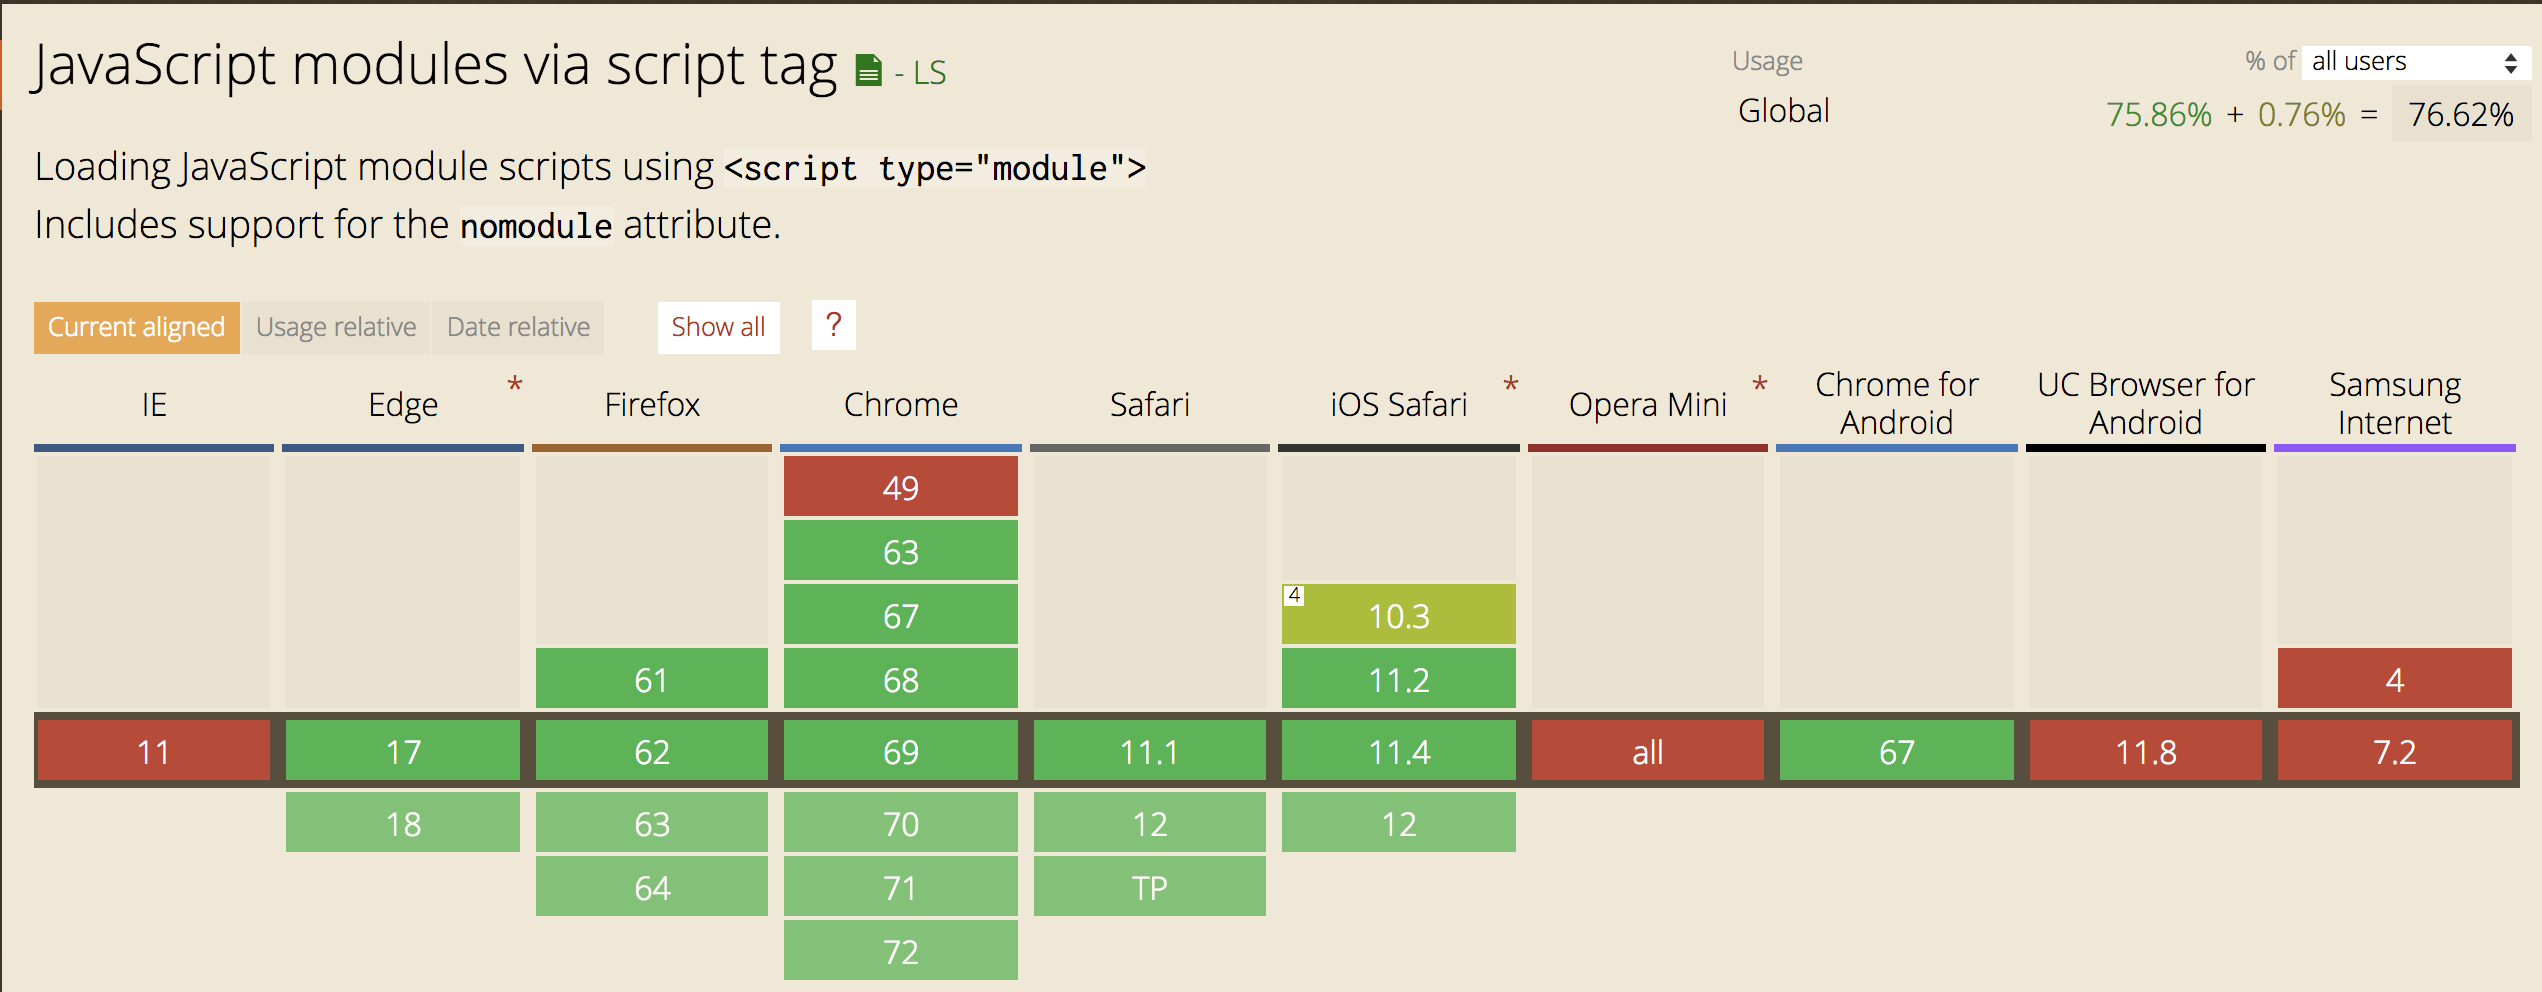
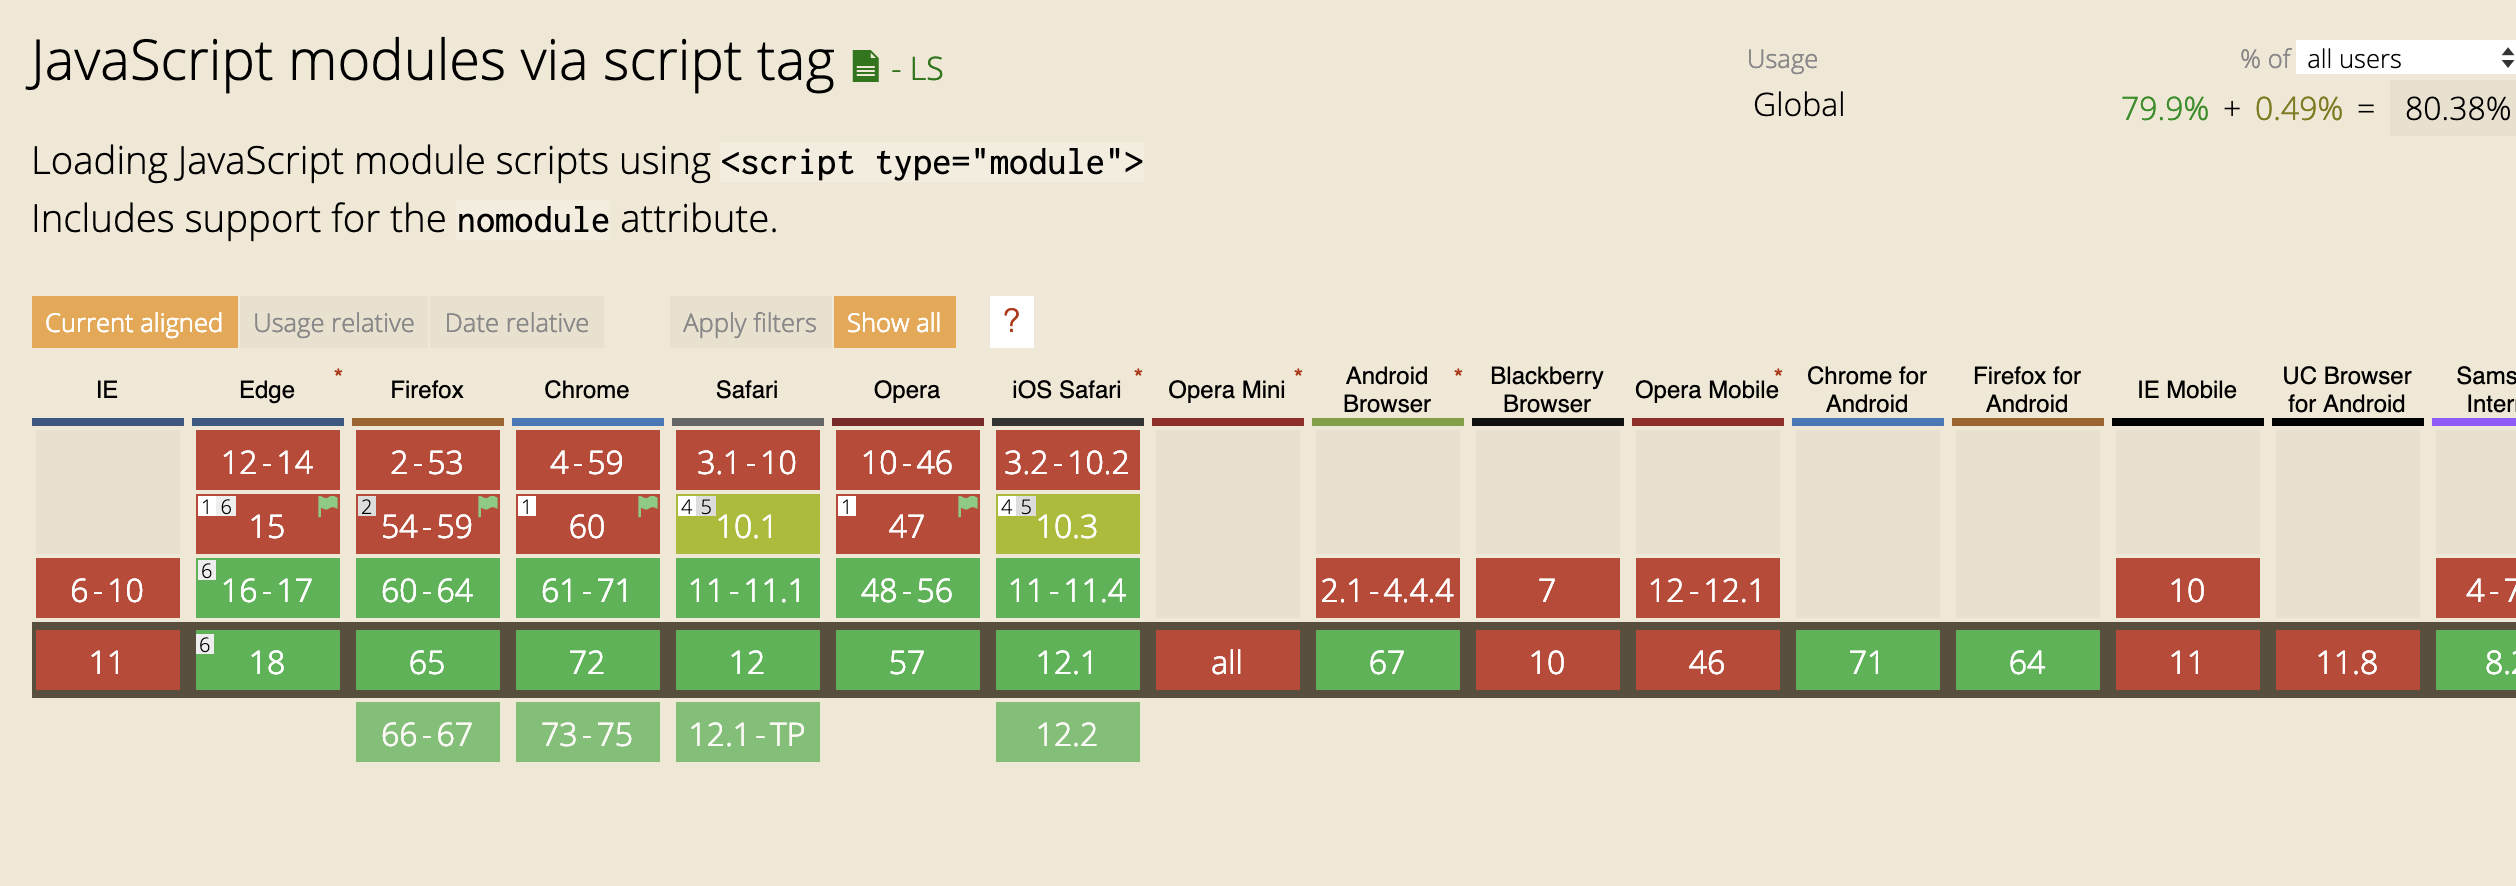
added new slides

diff --git a/source/slides/s3/index.html b/source/slides/s3/index.html
@@ -1,5 +1,5 @@
 <!DOCTYPE html>
-<html lang="ru">
+<html lang="ru" xmlns="http://www.w3.org/1999/html">
 <head>
 	<title>Модульность, разработка компонентов, шаблонизация</title>
 	<meta charset="utf-8">
@@ -14,20 +14,126 @@
 <body class="shower list">
 
 <header class="caption">
-	<h1>Модульность, разработка компонентов, шаблонизация</h1>
+	<h1>Функции, мультипарадигменный JS, модульность, разработка компонентов, шаблонизация</h1>
 	<p>Технопарк, весна, 2019 г.</p>
 </header>
 
 <section class="slide first">
-	<h2 class="shout">Модули JavaScript<br/>
+	<h2 class="shout">
+		<small style="font-size: 60px">Функции, мультипарадигменный&nbspJS, модульность, разработка&nbspкомпонентов,
+			шаблонизация
+		</small>
+		<br/>
 		<small>Слайды доступны по ссылке<br/>
 			<a href="https://frontend-park-mailru.firebaseapp.com/">frontend-park-mailru.firebaseapp.com</a>
 		</small>
 	</h2>
 </section>
 
+<section class="slide">
+	<h2 class="shout">Немного философии</h2>
+</section>
+
+<section class="slide">
+	<h2>Что такое функция?</h2>
+	<p class="medium-content">
+	<blockquote>Фу́нкция (лат. functio — «исполнение, совершение; служебная обязанность») — отношение между элементами,
+		при котором изменение в одном элементе влечёт изменение в другом
+	</blockquote>
+	</p>
+	<ul lang="ru">
+		<li><b>Математика</b> – <i>отображение или преобразование элементов одного множества в элементы другого
+			множества</i>
+		</li>
+		<li><b>Программирование</b> – <i>ссылка на блок операторов (не обязательно именованный), реализующий
+			последовательность
+			действий</i></li>
+	</ul>
+</section>
+
+<section class="slide">
+	<h2>Чистые (pure) функции</h2>
+	<p class="medium-content">
+	<blockquote>
+		Чистыми (pure) называются функции, не производящие побочных эффектов
+	</blockquote>
+	</p>
+
+	<ul lang="ru"> Такая функция:
+		<li>Вычисляет результат <mark>только</mark> на основе аргументов</li>
+		<li>Возвращает <mark><i>гарантированно детерминированный</i></mark> результат</li>
+	</ul>
+
+	<ul lang="ru"> Плюсы:
+		<li>
+			Легче читать и понимать код
+		</li>
+		<li>
+			Легче тестировать (не надо создавать «условий»)
+		</li>
+		<li>
+			Надежнее, потому что не зависят от «погоды» и состояния окружения, только от аргументов
+		</li>
+		<li>Можно запускать параллельно, можно кешировать результат и т.д. и т.п.</li>
+	</ul>
+</section>
+
+<section class="slide">
+	<h2>Чистые (pure) функции</h2>
+	<div style="position:relative; width: 100%; height: 80%; overflow: hidden;">
+		<img class="place" src="pure_functions.png" width="100%">
+	</div>
+</section>
+
+<section class="slide">
+	<h2>Функции чистые, а мир вокруг...</h2>
+	<p class="medium-content">
+	<blockquote>
+		"Не надо быть гением, чтобы понять, что у мира есть проблемы." ©&nbspфильм&nbspХранители
+	</blockquote>
+	</p>
+
+	<p class="medium-content">
+		Примеры побочных эффектов: печать, сетевой запрос, изменение состояния.
+		<br/>
+		<br/>
+		<code>Math.random</code>
+	</p>
+
+	<p class="medium-content">
+		Вывод – без фанатизма.
+	</p>
+</section>
+
+<section class="slide">
+	<h2 class="shout">Функции в JavaScript</h2>
+</section>
+
 <section class="slide question">
 	<h2>
+		<small style="font-size: 60%; display: inline-block;">Примеры по <a
+				href="https://github.com/frontend-park-mail-ru/3-lectrure-samples/tree/master/simple" target="_blank">ссылке</a>
+		</small>
+	</h2>
+</section>
+
+<section class="slide">
+	<h2>Объекты первого класса</h2>
+	<p class="medium-content">
+	<blockquote>
+	Объектами первого класса (англ. first-class object, first-class entity, first-class citizen) в контексте конкретного языка программирования называются элементы, которые могут быть переданы как параметр, возвращены из функции, присвоены переменной.
+	</blockquote>
+	</p>
+
+	<p class="medium-content">
+		Функции в JavaScript – объекты первого класса.
+		<br/>
+		Это значит, что в JS можно создавать <mark>функции высшего порядка</mark>
+	</p>
+</section>
+
+<section class="slide">
+	<h2 class="shout">
 		<strong>Замыкания!</strong> <br>
 		<small style="font-size: 60%; display: inline-block;">или как работает JavaScript</small>
 	</h2>
@@ -35,7 +141,10 @@
 
 <section class="slide">
 	<h2>Лексическое окружение</h2>
-	<p>Все переменные внутри функции &mdash; это свойства специального внутреннего объекта <mark>LexicalEnvironment</mark>, который создаётся при её запуске</p>
+	<p>Все переменные внутри функции &mdash; это свойства специального внутреннего объекта
+		<mark>LexicalEnvironment</mark>
+		, который создаётся при её запуске
+	</p>
 	<pre class="hljs js">
 		<code>function sayHello(name) {</code>
 		<code>    const magicNumber = 42;</code>
@@ -65,6 +174,14 @@
 	</pre>
 </section>
 
+<section class="slide question">
+	<h2>
+		<small style="font-size: 60%; display: inline-block;">Ссылка на <code><a
+				href="https://www.ecma-international.org/ecma-262/#sec-executable-code-and-execution-contexts"
+				target="_blank">стандарт</a></code></small>
+	</h2>
+</section>
+
 <section class="slide">
 	<h2>Демонстрация</h2>
 	<div style="position:relative; width: 100%; height: 80%; overflow: hidden;">
@@ -73,13 +190,15 @@
 </section>
 
 <section class="slide">
-	<h2>Внешние переменные</h2>
+	<h2>Замыкание</h2>
 	<pre class="hljs js">
 		<code>function sum(operand1) {</code>
 		<code>    return function(operand2) {</code>
 		<code>        console.log(operand1 + operand2);</code>
 		<code>    }</code>
 		<code>}</code>
+		<code> </code>
+		<code>// const sum = a => b => a + b</code>
 		<code> </code>
 		<code>let plus3 = sum(3);</code>
 		<code>plus3(6); // 9</code>
@@ -88,62 +207,53 @@
 </section>
 
 <section class="slide">
-	<h2>Внешние переменные</h2>
+	<h2>Замыкание</h2>
 	<div style="position:relative;width: 100%; height: 85%; overflow: hidden">
-		<img class="place" src="closure.png" style="transform-origin: center;transform: translate(-50%,-52%) scale(0.7);">
+		<img class="place" src="closure.png"
+		     style="transform-origin: center;transform: translate(-50%,-52%) scale(0.7);">
 	</div>
 </section>
 
-<section class="slide">
-	<h2>Приватные переменные</h2>
-	<pre class="hljs js">
-		<code>function sum(operand1) {</code>
-		<code>    let privateOperand = 1;</code>
-		<code>    return function(operand2) {</code>
-		<code>        console.log(operand1 + operand2 + privateOperand);</code>
-		<code>    }</code>
-		<code>}</code>
-		<code> </code>
-		<code>let plus3 = sum(3);</code>
-		<code>plus3(6); // 10</code>
-		<code> </code>
-	</pre>
-</section>
 
 <section class="slide">
-	<h2>Имеем функцию</h2>
-	<pre class="hljs js">
-		<code>function f() {</code>
-		<code>    let privateVariable = 1;</code>
-		<code> </code>
-		<code>    // some code</code>
-		<code>};</code>
-		<code> </code>
-		<code>f();</code>
-		<code>console.log(window.privateVariable);  // undefined</code>
-		<code> </code>
-	</pre>
+	<h2 class="shout">
+		<strong style="font-size: 60%;">Мультипарадигменный JavaScript</strong> <br>
+	</h2>
 </section>
 
-<section class="slide">
-	<h2>Самовызывающиеся функции</h2>
-	<p>Сделаем функцию <mark>анонимной</mark></p>
-	<pre class="hljs js">
-		<code>(function () {</code>
-		<code>    let privateVariable = 1;</code>
-		<code> </code>
-		<code>    // some code</code>
-		<code>})();</code>
-		<code> </code>
-		<code>console.log(window.privateVariable);  // undefined</code>
-		<code> </code>
-	</pre>
+<section class="slide question">
+	<h2>
+		<small style="font-size: 60%; display: inline-block;">Функциональный JS</small>
+	</h2>
+</section>
+
+<section class="slide question">
+	<h2>
+		<small style="font-size: 60%; display: inline-block;">Примеры по <a
+				href="https://github.com/frontend-park-mail-ru/3-lectrure-samples/tree/master/funcs" target="_blank">ссылке</a>
+		</small>
+	</h2>
+</section>
+
+<section class="slide question">
+	<h2>
+		<small style="font-size: 60%; display: inline-block;">ООП парадигма в JS</small>
+	</h2>
+</section>
+
+<section class="slide question">
+	<h2>
+		<small style="font-size: 60%; display: inline-block;">Примеры по <a
+				href="https://github.com/frontend-park-mail-ru/3-lectrure-samples/tree/master/OOP" target="_blank">ссылке</a>
+		</small>
+	</h2>
 </section>
 
 <section class="slide">
 	<h2>Модули</h2>
 	<blockquote>
-		<p class="small-content"><b>Модуль</b> &mdash; функционально законченный фрагмент программы, оформленный в виде отдельного файла с исходным кодом… предназначенный для использования в других программах</p>
+		<p class="small-content"><b>Модуль</b> &mdash; функционально законченный фрагмент программы, оформленный в виде
+			отдельного файла с исходным кодом… предназначенный для использования в других программах</p>
 	</blockquote>
 </section>
 
@@ -164,7 +274,7 @@
 </section>
 
 <section class="slide">
-	<h2>Модули &mdash; будущее</h2>
+	<h2>Модули &mdash; <s>будущее</s> настоящее</h2>
 	<pre class="hljs js">
 		<code>// main.js</code>
 		<code>import AwesomeClass from './package.js'</code>
@@ -184,14 +294,16 @@
 <section class="slide">
 	<h2>caniuse.com a year ago</h2>
 	<div style="position:relative;width: 100%; height: 75%;">
-		<img class="place" src="caniuse-modules.png" style="transform-origin: center; transform: translate(-50%,-50%) scale(0.85);">
+		<img class="place" src="caniuse-modules.png"
+		     style="transform-origin: center; transform: translate(-50%,-50%) scale(0.85);">
 	</div>
 </section>
 
 <section class="slide">
 	<h2><a href="https://caniuse.com/#feates6-module" target="_blank">caniuse.com now</a></h2>
 	<div style="position:relative;width: 100%; height: 75%;">
-		<img class="place" src="caniuse-modules-2.png" style="transform-origin: center; transform: translate(-50%,-50%) scale(0.40);">
+		<img class="place" src="caniuse-modules-2.png"
+		     style="transform-origin: center; transform: translate(-50%,-50%) scale(0.40);">
 	</div>
 </section>
 
@@ -203,7 +315,8 @@
 <section class="slide">
 	<h2>Компоненты</h2>
 	<div style="position:relative;width: 100%; height: 75%;">
-		<img class="place" src="empty.png" style="transform-origin: center;transform: translate(-50%,-49.7%) scale(0.3);">
+		<img class="place" src="empty.png"
+		     style="transform-origin: center;transform: translate(-50%,-49.7%) scale(0.3);">
 	</div>
 </section>
 
